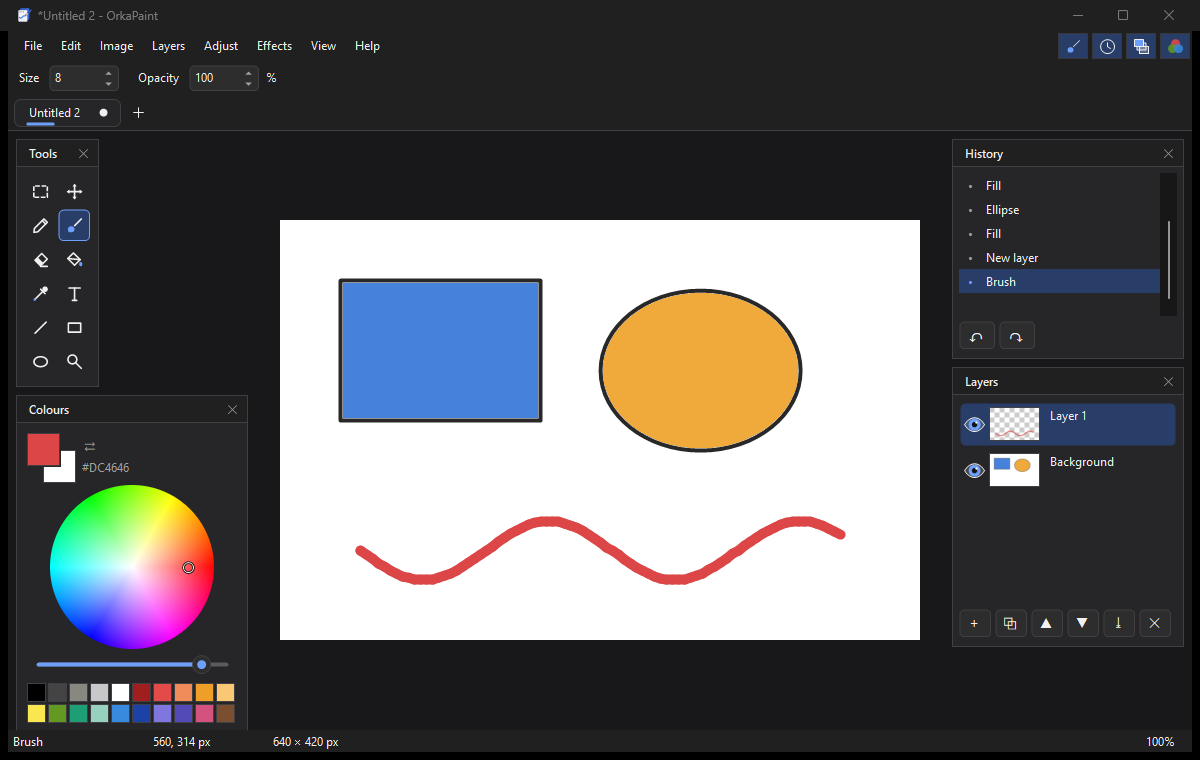
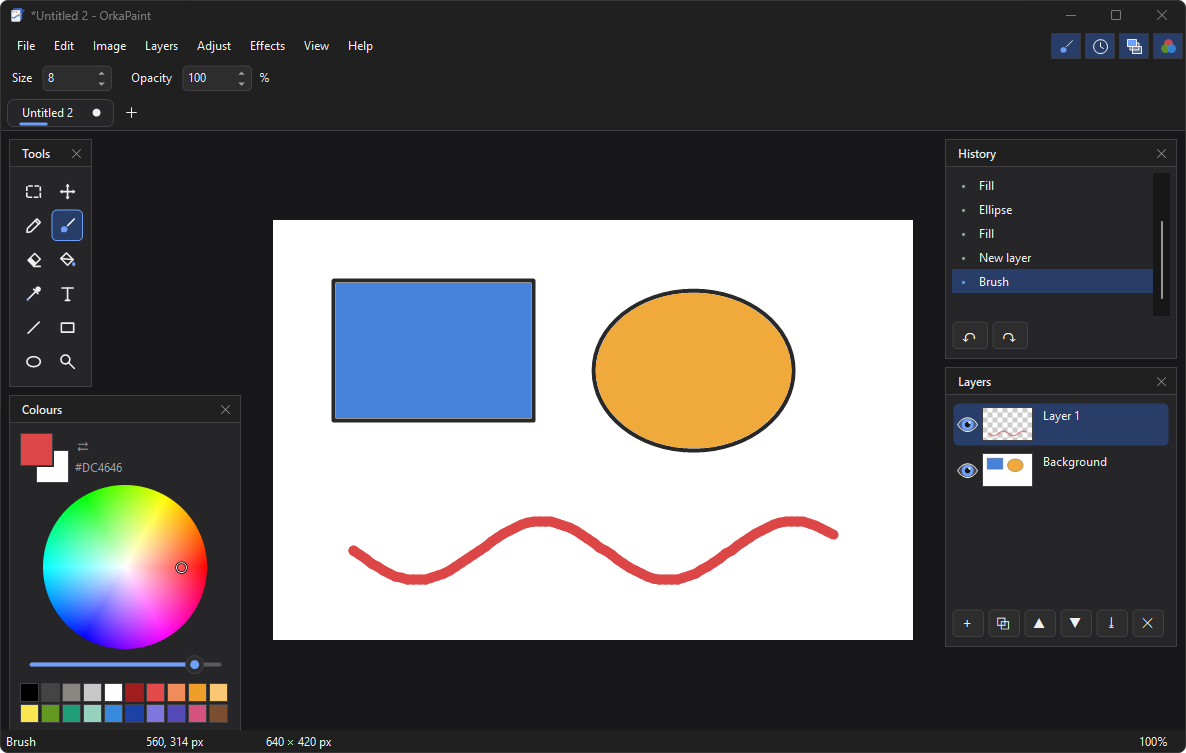
README: 1.0.1, new screenshots

diff --git a/README.md b/README.md
@@ -6,7 +6,7 @@ A drawing program for Windows - a bit more than plain Paint: layers, selections,
 
 **[Download the latest version](https://github.com/cyz-yt/OrkaPaint/releases/latest)** · [Website](https://cyzs-retroweb.rf.gd/orkapaint.php)
 
-Current version: **1.0 "Azurite"**
+Current version: **1.0.1 "Azurite"**
 
 ## What it does
 
@@ -28,8 +28,8 @@ Current version: **1.0 "Azurite"**
 - Several pictures at once, in tabs.
 - History: click any step to go back to it.
 - Floating panels (Tools, Colours, History, Layers) you can move, hide and bring back with F5-F8.
-- Light, dark or like Windows.
-- Windows in 8 languages: English, Polish, German, Spanish, French, Italian, Portuguese and Ukrainian - Windows language by default. Yours is missing? Settings > Make your own language.
+- Light or dark (the same as Windows at first), plus a classic look with square corners like Windows 10.
+- Windows in 8 languages: English, Polish, German, Spanish, French, Italian, Portuguese and Ukrainian - Windows language by default. Yours is missing? Settings > Language editor.
 - "Open in OrkaPaint" in the Explorer menu for pictures (an option in Settings).
 - A short tutorial on the first run and a tip on every run after.
 - Portable mode: put an empty `portable.txt` next to `OrkaPaint.exe` and the settings and log stay next to it.
@@ -42,12 +42,12 @@ Opens PNG, JPG, BMP, GIF, TIFF, ICO and `.ora`. Saves PNG, JPG, BMP and `.ora`.
 |---|---|
 | ![Dark theme](screenshots/dark.png) | ![Text](screenshots/text.png) |
 | The dark theme | Typing text straight onto the picture |
-| ![Settings](screenshots/settings.png) | |
-| Settings | |
+| ![Settings](screenshots/settings.png) | ![Classic look](screenshots/classic.png) |
+| Settings with tabs at the top | The classic look (1.0.1) |
 
 ## Installing
 
-1. Download `OrkaPaint-1.0-setup.exe` from [Releases](https://github.com/cyz-yt/OrkaPaint/releases/latest).
+1. Download `OrkaPaint-1.0.1-setup.exe` from [Releases](https://github.com/cyz-yt/OrkaPaint/releases/latest).
 2. Run it. Windows may show "Windows protected your PC", because the installer is not code-signed. Click **More info**, then **Run anyway**.
 3. **Express** installs everything. **Custom** lets you leave out window languages.
 
@@ -56,7 +56,7 @@ Opens PNG, JPG, BMP, GIF, TIFF, ICO and `.ora`. Saves PNG, JPG, BMP and `.ora`.
 **Quiet install** (for scripts):
 
 ```
-OrkaPaint-1.0-setup.exe /SILENT /CURRENTUSER /openwith=yes /contextmenu=no /updates=yes /theme=system
+OrkaPaint-1.0.1-setup.exe /SILENT /CURRENTUSER /openwith=yes /contextmenu=no /updates=yes /theme=system
 ```
 
 `/openwith=no` leaves file associations alone, `/contextmenu=yes` adds "Open in OrkaPaint" to the Explorer menu, `/updates=no` turns off the update check, `/theme=light` or `/theme=dark` picks the theme, and `/ALLUSERS` installs for everyone.
@@ -86,6 +86,14 @@ OrkaPaint-1.0-setup.exe /SILENT /CURRENTUSER /openwith=yes /contextmenu=no /upda
 - **Problem reports:** sent only when you click **Send Report**. You see every line first, and there are no pictures, file names, folders or your Windows user name in it. *Settings*
 
 Something wrong? Help > Show Log opens the log, and the [diagnostics page](https://cyzs-retroweb.rf.gd/orkapaint-diagnostyka.php) reads it in your browser.
+
+## Changes in 1.0.1 "Azurite"
+
+- Settings with tabs at the top, like in OrkaPlayer.
+- A classic Windows 10 look: square corners and Windows 10 colours.
+- Light or dark, the same as Windows at first.
+- A language editor in Settings. The Polish is written from scratch.
+- The Explorer menu and file type names in the program's language, and a new "Up to Date" window.
 
 ## Built with
 
